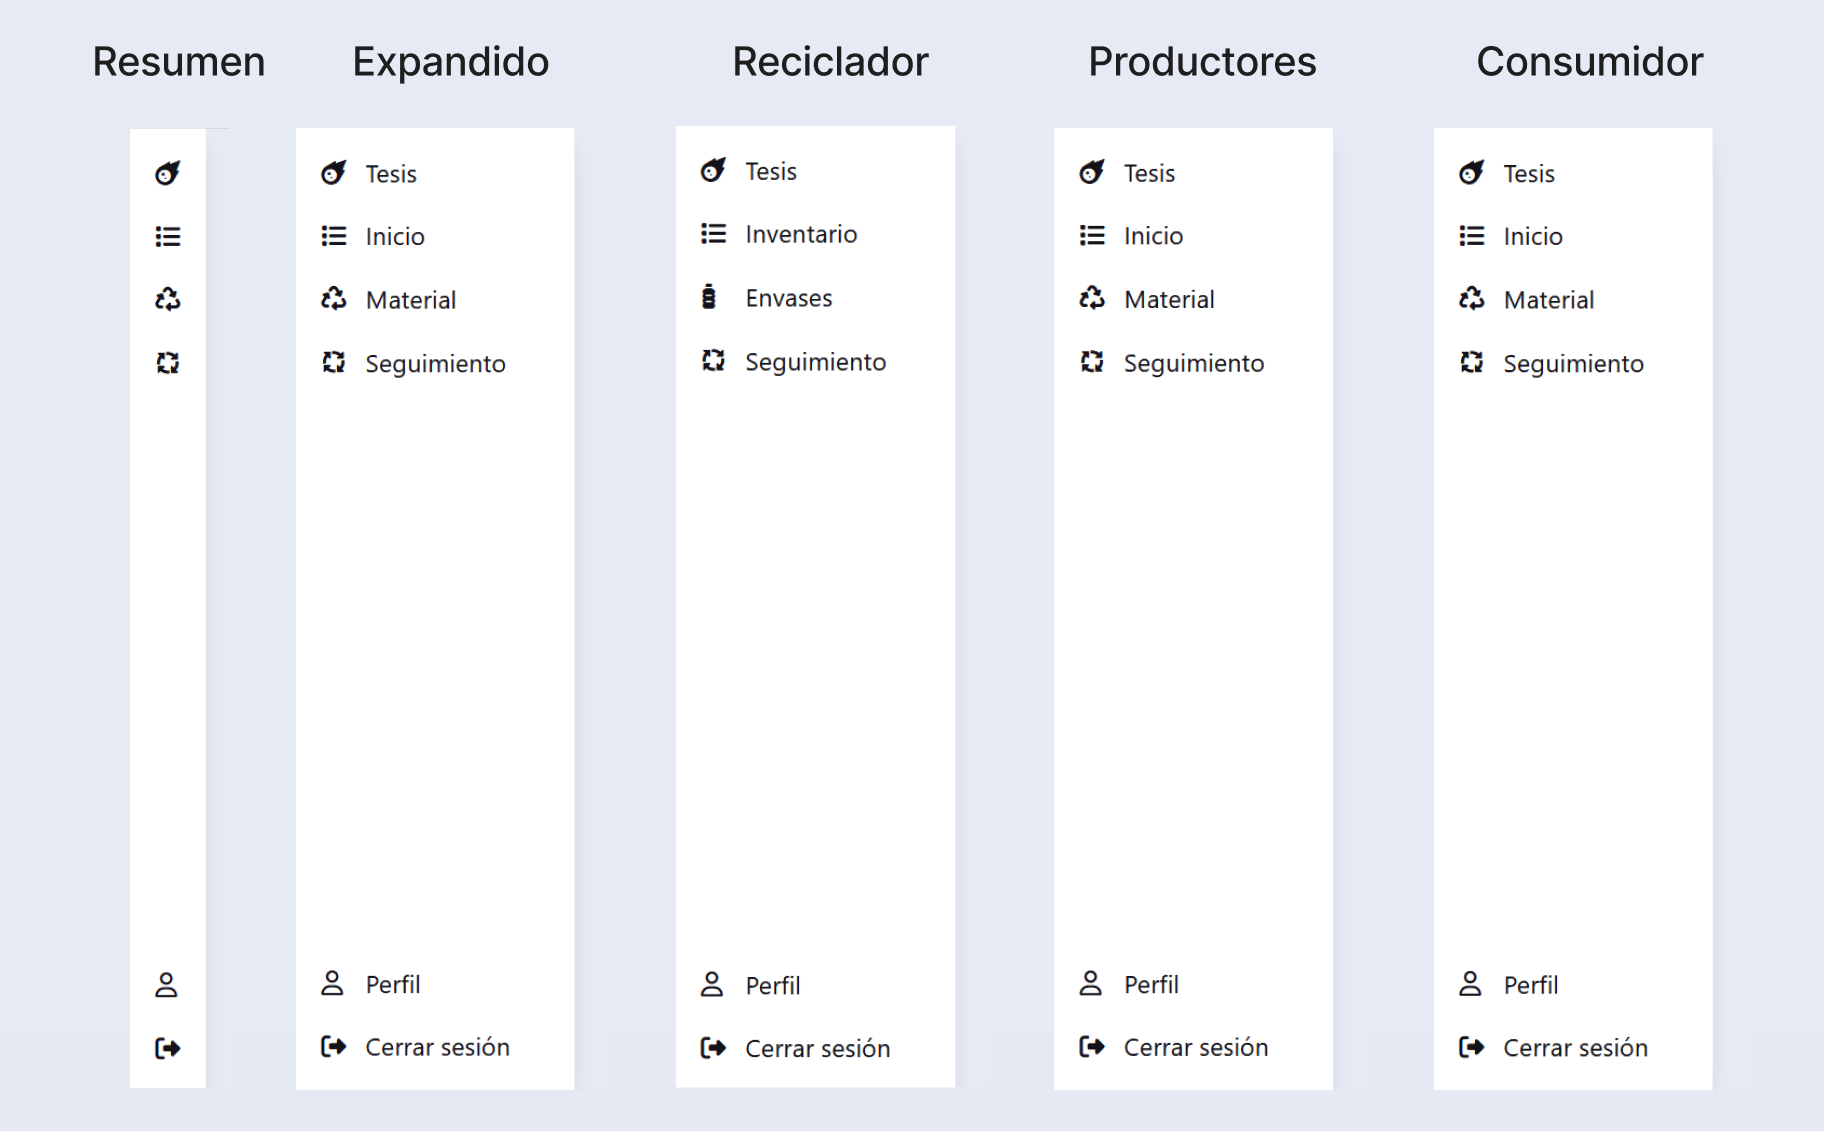
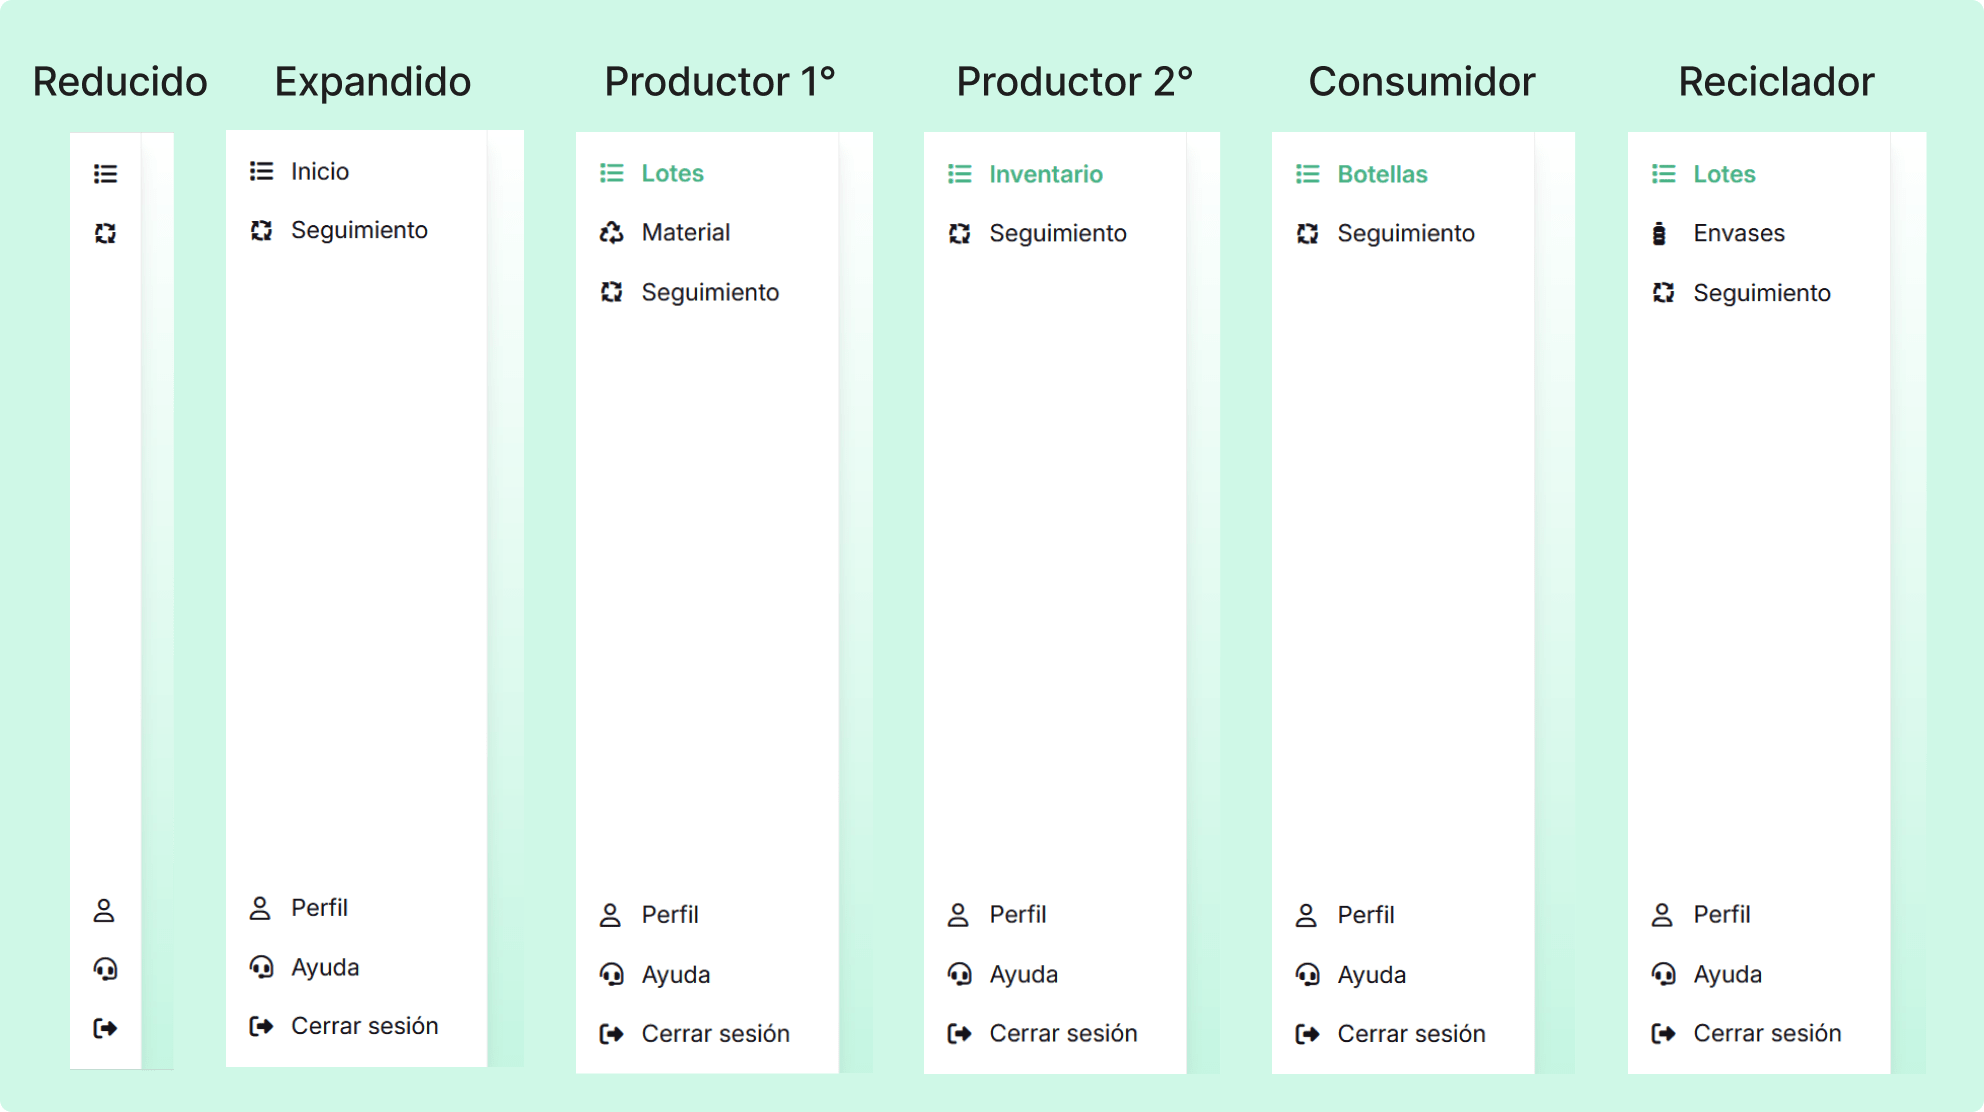
Update images

diff --git a/tex-template/Chapters/05-Design.tex b/tex-template/Chapters/05-Design.tex
@@ -214,7 +214,7 @@ De forma complementaria a la arquitectura de contratos inteligentes, el diseño 
 
 En el diseño de arquitectura de la capa backend se adoptó el patrón \textit{Clean Architecture} (Arquitectura Limpia), un modelo de diseño que prioriza la separación de las reglas de negocio de las dependencias externas. En este esquema, la implementación de la API se estructura en tres capas principales: \textit{Routers}, \textit{Handlers} y \textit{Repositories}. Los routers reciben las solicitudes HTTP y las dirigen a los handlers correspondientes, luego los handlers contienen la lógica de negocio y orquestan las operaciones, por último, los repositories se encargan de la interacción con las fuentes de datos (ya sea la base de datos relacional o la blockchain). La comunicación entre estas capas es unidireccional, lo que significa que las capas externas solo pueden acceder a las capas más internas, reforzando así la independencia de la lógica de negocio (Figura \ref{fig:clean-architecture}).
 
-\begin{figure}[!htb]
+\begin{figure}[!b]
 \centering
 \includegraphics[width=0.6\textwidth]{Figures/clean-architecture.png}
 \caption{Modelo Clean Architecture}
@@ -240,12 +240,12 @@ Para la estructuración interna del código, se eligió implementar una arquitec
 
 \begin{figure}[!tb]
     \centering
-    \includegraphics[width=0.8\textwidth]{Figures/frontend-navigation.png}
-    \caption{Diseño de la barra lateral de navegación de la aplicación para cada rol}
+    \includegraphics[width=0.9\textwidth]{Figures/frontend-navigation.png}
+    \caption{Diseño de casos de la barra lateral de navegación de la aplicación para cada rol}
     \label{fig:frontend-navigation}
 \end{figure}
 
-La estructura de la interfaz de usuario se organizó en módulos funcionales por cada rol de usuario, lo que se alinea con la división de responsabilidades del diseño de arquitectura de backend y capa de datos. Se definieron vistas específicas para el registro y la gestión de lotes por parte de los productores, y una interfaz de consulta para los consumidores. En la Figura \ref{fig:frontend-navigation} se puede observar el diseño de la navegación de la aplicación, que permite el acceso a las diferentes pantallas disponibles según el rol del usuario a través de una barra lateral que se muestra siempre en pantalla. En el Apéndice \ref{cp:user-flows} se encuentran documentados los flujos de usuario para cada rol con imágenes de sus respectivas pantallas y las acciones que conectan el flujo.
+La estructura de la interfaz de usuario se organizó en módulos funcionales por cada rol de usuario, lo cual se alinea con la división de responsabilidades del diseño de arquitectura de backend y capa de datos. Por ejemplo, se definieron vistas específicas para el registro y la gestión de lotes por parte de los productores, y una interfaz de consulta para los consumidores. En la Figura \ref{fig:frontend-navigation} se puede observar el diseño de la navegación de la aplicación, que consiste en una barra lateral comprimida que se expande al posicionar el cursor sobre ella, mostrando accesos directos a las pantallas disponibles según el rol del usuario autenticado. El contenido de la barra lateral varía dinámicamente según el rol del usuario autenticado para permitir un acceso rápido a las funcionalidades relevantes para cada tipo de usuario. En el Apéndice \ref{cp:user-flows} se encuentran documentados los flujos de usuario para cada rol con imágenes de sus respectivas pantallas y las acciones que conectan el flujo.
 
 \begin{figure}[!htb]
     \centering
